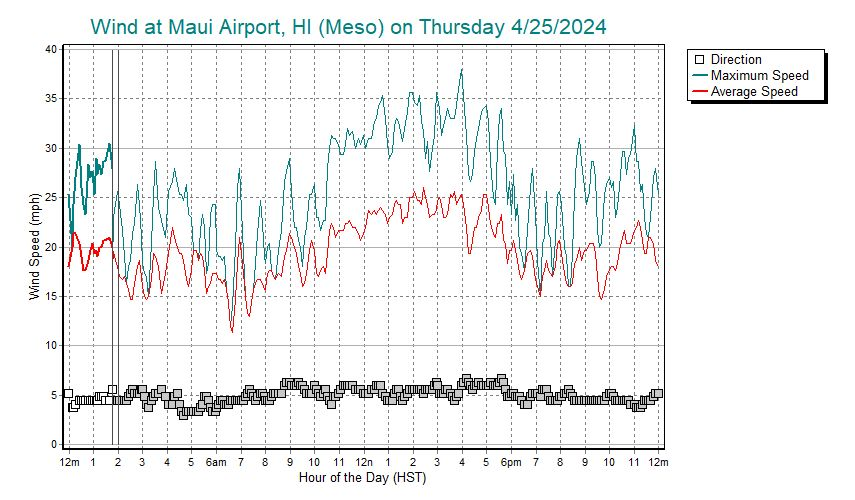
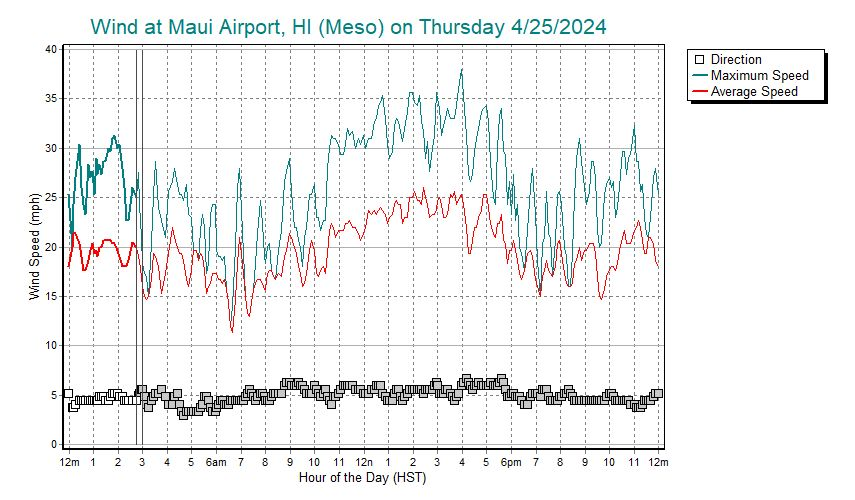
another update

Changed region(s): [[0.1216, 0.27, 0.1825, 0.6], [0.1216, 0.75, 0.1825, 0.81]]

diff --git a/charts.html b/charts.html
@@ -88,7 +88,7 @@
 	<p><b><font face="Arial" size="5">Samples from Rosy.asp</font></b></p>
    </div>
    <p><span>
-(24-hour charts updated Thursday, April 25, 2024 at 07:00AM Central).
+(24-hour charts updated Thursday, April 25, 2024 at 08:00AM Central).
    </span></p>
    <p>The orginal ASP page is named Rosy, a nickname windsurfers from the Tri-Cities gave Roosevelt, a sailing site on the east end of the Columbia River gorge.</p>
 	<p>This first pair of sample charts, wind and temperature, is updated every 

diff --git a/charts_input.html b/charts_input.html
@@ -88,7 +88,7 @@
 	<p><b><font face="Arial" size="5">Samples from Rosy.asp</font></b></p>
    </div>
    <p><span>
-(24-hour charts updated Thursday, April 25, 2024 at 07:00AM Central).
+(24-hour charts updated Thursday, April 25, 2024 at 08:00AM Central).
    </span></p>
    <p>The orginal ASP page is named Rosy, a nickname windsurfers from the Tri-Cities gave Roosevelt, a sailing site on the east end of the Columbia River gorge.</p>
 	<p>This first pair of sample charts, wind and temperature, is updated every 
